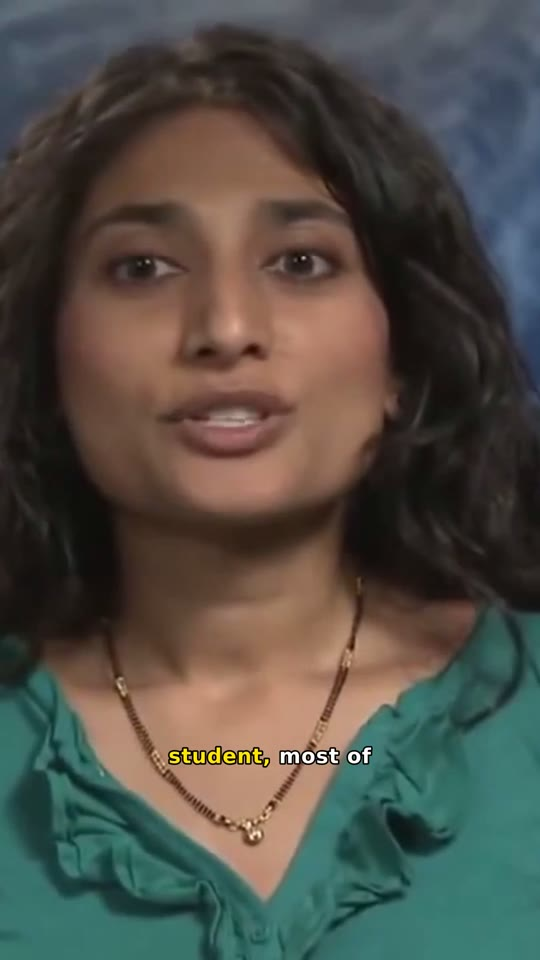
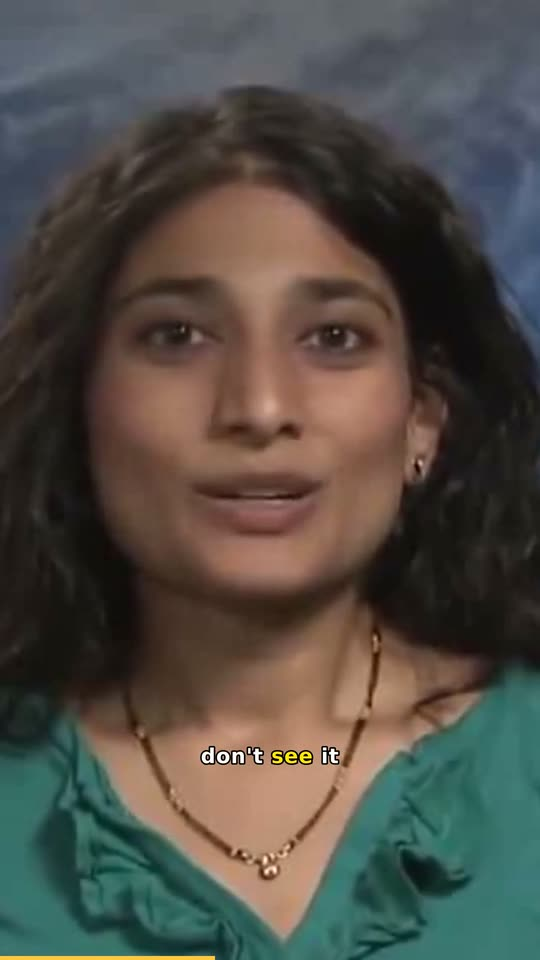
site: play the real rendered short in the demo + examples
- Take step now plays demo-short.mp4 (Hermes Studio's own render, untouched) while
  it is on screen; pauses when scrolled away; muted autoplay, opt-in 'Sound on'.
- Examples: talking-head output is the real video with controls.
- New source window: NASA 'Mamta Patel Nagaraja' 3:32-4:32, cropped so the NASA
  insignia is out of frame (14 CFR 1221). Picked window chosen by plan_heuristic,
  skipping stretches with decode corruption in the Commons upload.
- Scroll demo transcript, face box and crop re-measured from face_track on the new clip.
- Credit names the excerpt and states no endorsement (NASA media guidelines).
- Reduced motion: take card visible with native controls.

diff --git a/site/index.html b/site/index.html
@@ -150,9 +150,9 @@
     .screen .src { position: absolute; inset: 0; width: 100%; height: 100%; object-fit: cover; will-change: clip-path, transform; }
     .chip { position: absolute; left: 3%; top: 5%; display: flex; gap: .7rem; align-items: center; background: rgba(11,11,12,.88); border: 1px solid var(--line-2); padding: .45rem .75rem; font: 500 12px var(--mono); color: var(--ink); }
     .chip .ok { color: var(--amber); }
-    .facebox { position: absolute; left: 32.2%; top: 11%; width: 21%; height: 48%; border: 2px solid var(--amber); opacity: 0; }
+    .facebox { position: absolute; left: 47.2%; top: 19%; width: 19%; height: 45%; border: 2px solid var(--amber); opacity: 0; }
     .facebox span, .guide span { position: absolute; left: -2px; top: -1.7em; background: var(--amber); color: var(--amber-ink); font: 500 11px var(--mono); padding: .15em .45em; white-space: nowrap; }
-    .guide { position: absolute; top: 0; bottom: 0; left: 26.9%; width: 31.64%; border: 2px dashed var(--amber); opacity: 0; }
+    .guide { position: absolute; top: 0; bottom: 0; left: 40.88%; width: 31.64%; border: 2px dashed var(--amber); opacity: 0; }
     .guide span { top: .5em; left: .5em; }
     .tx { position: absolute; right: 3%; top: 6%; bottom: 6%; width: 42%; background: rgba(11,11,12,.9); border-left: 2px solid var(--amber); padding: .9rem 1rem; font: 13px/1.55 var(--mono); color: var(--dim); overflow: hidden; opacity: 0; display: flex; flex-direction: column; justify-content: flex-end; }
     .tx em { font-style: normal; color: var(--ink); }
@@ -161,6 +161,16 @@
     .cap .k { color: var(--amber); }
     .take { position: absolute; inset: 0; background: rgba(11,11,12,.95); display: grid; grid-template-columns: auto minmax(0, 1fr); grid-template-rows: minmax(0, 100%); gap: 5%; padding: 4.5% 5%; opacity: 0; pointer-events: none; }
     .take img { height: 100%; width: auto; max-width: none; aspect-ratio: 9 / 16; object-fit: cover; border: 1px solid var(--line-2); display: block; min-height: 0; }
+    .takev { position: relative; height: 100%; aspect-ratio: 9 / 16; min-height: 0; border: 1px solid var(--line-2); background: #000; }
+    .takev video { width: 100%; height: 100%; object-fit: cover; display: block; }
+    .snd { position: absolute; left: 50%; bottom: 7%; transform: translateX(-50%); background: rgba(11,11,12,.86); color: var(--ink); border: 1px solid var(--line-2); font: 500 11px var(--mono); padding: .4em .8em; cursor: pointer; white-space: nowrap; }
+    .snd:hover, .snd:focus-visible { border-color: var(--amber); color: var(--amber); outline: none; }
+    .snd[aria-pressed="true"] { color: var(--amber); }
+    .demo.live .take { pointer-events: none; }
+    .demo.live .take.on { pointer-events: auto; }
+    .demo.still .take { position: relative; opacity: 1; pointer-events: auto; margin-top: 1rem; height: min(70vh, 560px); }
+    .demo.still .take .fr { opacity: 1; transform: none; }
+    .ex video { width: 100%; display: block; border: 1px solid var(--line); background: #000; aspect-ratio: 9 / 16; object-fit: cover; }
     .take .files { align-self: center; }
     .take .ttl { font-weight: 800; font-variation-settings: "wdth" 125; text-transform: uppercase; font-size: clamp(16px, 1.9vw, 26px); line-height: .98; margin: 0 0 1rem; }
     .take .fr { display: flex; justify-content: space-between; gap: 1rem; padding: .5rem 0; border-top: 1px solid var(--line); font: 500 12px var(--mono); color: var(--mute); opacity: 0; transform: translateY(8px); }
@@ -264,11 +274,11 @@
             <div class="tx"></div>
             <div class="cap"></div>
             <div class="take">
-              <img src="assets/ex-talk-out.jpg" alt="" loading="lazy">
+              <div class="takev"><video src="assets/demo-short.mp4" poster="assets/demo-short-poster.jpg" muted loop playsinline preload="none"></video><button type="button" class="snd" aria-label="Play with sound">Sound on</button></div>
               <div class="files">
                 <p class="kicker" style="margin-bottom:.5rem">Named from its own words</p>
-                <p class="ttl">Most of us sought advice from each other</p>
-                <div class="fr"><b>clip_01.mp4</b><span>9:16 · 0:08 · −14 LUFS</span></div>
+                <p class="ttl">Sometimes the opportunities I've gotten</p>
+                <div class="fr"><b>clip_01.mp4</b><span>9:16 · 0:15 · −16 LUFS</span></div>
                 <div class="fr"><b>talk.srt · talk.vtt</b><span>word timings</span></div>
                 <div class="fr"><b>talk.txt</b><span data-words>190 words</span></div>
                 <div class="fr post"><b>Posted</b><span>Never. That's yours.</span></div>
@@ -309,9 +319,9 @@
       <figure class="reveal">
         <div class="pair">
           <div><img src="assets/ex-talk-src.jpg" alt="Wide 16:9 interview frame of a NASA engineer" loading="lazy"><span class="tag">Source · 16:9</span></div>
-          <div><img src="assets/ex-talk-out.jpg" alt="Vertical 9:16 clip cropped to the speaker with captions" loading="lazy"><span class="tag"><b>Auto → Speaker</b></span></div>
+          <div><video src="assets/demo-short.mp4" poster="assets/ex-talk-out.jpg" controls muted playsinline preload="none" aria-label="The 15-second vertical short Hermes Studio rendered from this talk"></video><span class="tag"><b>Auto → Speaker</b> · real output, press play</span></div>
         </div>
-        <figcaption><h3>Talking head</h3><p>Face found, crop locked on it for the whole clip. Word-by-word captions sit clear of the app buttons. Audio cleaned and levelled to -14 LUFS.</p></figcaption>
+        <figcaption><h3>Talking head</h3><p>Face found, crop locked on it for the whole clip. Word-by-word captions sit clear of the app buttons. Audio cleaned and levelled. That video is Studio's own render, untouched.</p></figcaption>
       </figure>
       <figure class="reveal">
         <div class="pair three">
@@ -328,7 +338,7 @@
       <div><b>Captions</b><h3>Six styles · four spots</h3><p>Word-by-word highlight, your keywords in colour, fix any misheard word.</p></div>
       <div><b>Edit after</b><h3>Re-cut any clip</h3><p>Move in and out, change the look, re-render. The old take waits in Dropped.</p></div>
     </div>
-    <p class="credit reveal">Example footage: <a href="https://commons.wikimedia.org/wiki/File:Mamta_Patel_Nagaraja.ogv">“Mamta Patel Nagaraja”</a>, NASA, public domain via Wikimedia Commons. The stream example lays that clip over a Hermes Studio screen recording.</p>
+    <p class="credit reveal">Example footage: <a href="https://commons.wikimedia.org/wiki/File:Mamta_Patel_Nagaraja.ogv">“Mamta Patel Nagaraja”</a> (NASA MissionSTEM, 2012), public domain via Wikimedia Commons. The demo uses 3:32–4:32, cropped so the NASA insignia is out of frame. The stream example lays that clip over a Hermes Studio screen recording. Courtesy NASA; no endorsement by NASA or Ms. Patel Nagaraja is implied.</p>
   </div></section>
 
   <section class="ch" id="how"><div class="w">
@@ -408,12 +418,20 @@ hermesclip run talk.mp4 --mode transcript</pre></div>
       const seg = (p, a, b) => clamp((p - a) / (b - a));
       const ease = (t) => 1 - Math.pow(1 - t, 3);
       const mmss = (t) => `${Math.floor(t / 60)}:${String(Math.floor(t % 60)).padStart(2, "0")}`;
-      const DUR = 60, FACE = 0.427, CROPW = 0.3164, CLIP = [12.34, 20.2];
+      const DUR = 60, FACE = 0.567, CROPW = 0.3164, CLIP = [25.52, 40.62];
       const STEPS = [0, .12, .30, .44, .60, .76, .88];
       const LBL = ["source · probe", "listening · local whisper", "scoring windows · hook, flow, value", "framing · face lock", "captions · word timing", "tighten · pauses and filler", "take"];
       const el = { steps: qa(".demo-steps li"), bar: q(".demo-bar i"), screen: q(".screen"), img: q(".src"), chip: q(".chip"), ok: q(".chip .ok"),
         tx: q(".tx"), face: q(".facebox"), guide: q(".guide"), cap: q(".cap"), take: q(".take"), rows: qa(".take .fr"),
-        lbl: q(".track .lbl"), clock: q(".track .clock"), wave: q(".wave"), ph: q(".ph"), track: q(".track") };
+        lbl: q(".track .lbl"), clock: q(".track .clock"), wave: q(".wave"), ph: q(".ph"), track: q(".track"),
+        vid: q(".takev video"), snd: q(".snd") };
+      if (el.snd && el.vid) el.snd.addEventListener("click", () => {
+        el.vid.muted = !el.vid.muted;
+        el.snd.setAttribute("aria-pressed", String(!el.vid.muted));
+        el.snd.textContent = el.vid.muted ? "Sound on" : "Sound off";
+        if (!el.vid.muted) { el.vid.currentTime = 0; el.vid.play().catch(() => {}); }
+      });
+      if (reduce && el.vid) el.vid.controls = true;
       let W = [], bars = [], wins = [], gaps = [], cut = 0, capWords = [];
 
       function build() {
@@ -436,8 +454,8 @@ hermesclip run talk.mp4 --mode transcript</pre></div>
         }
         wins = wins.map(([a, b]) => {
           const d = document.createElement("div");
-          d.className = "win"; d.style.left = (100 * a / DUR) + "%"; d.style.width = (100 * (b - a) / DUR) + "%";
-          if (Math.abs(a - CLIP[0]) < 0.05) { d.classList.add("pick-me"); d.dataset.l = `picked ${mmss(a)}–${mmss(b)}`; }
+          if (Math.abs(a - CLIP[0]) < 0.05) { b = CLIP[1]; d.classList.add("pick-me"); d.dataset.l = `picked ${mmss(a)}–${mmss(b)}`; }
+          d.className += " win"; d.style.left = (100 * a / DUR) + "%"; d.style.width = (100 * (b - a) / DUR) + "%";
           el.track.appendChild(d); return d;
         });
         // what tighten removes: pauses over 0.45 s and filler words, straight from the timings
@@ -541,8 +559,15 @@ hermesclip run talk.mp4 --mode transcript</pre></div>
 
         // 07 take
         const tk = seg(p, .88, .97);
-        el.take.style.opacity = ease(seg(tk, 0, .35)).toFixed(3);
+        el.take.style.opacity = reduce ? "" : ease(seg(tk, 0, .35)).toFixed(3);
+        const showing = !reduce && tk > .25;
+        el.take.classList.toggle("on", showing);
+        if (el.vid) {
+          if (showing && el.vid.paused) { el.vid.preload = "auto"; el.vid.play().catch(() => {}); }
+          else if (!showing && !el.vid.paused) { el.vid.pause(); }
+        }
         el.rows.forEach((r, i) => {
+          if (reduce) { r.style.opacity = r.style.transform = ""; return; }
           const t = ease(seg(tk, .2 + i * .15, .45 + i * .15));
           r.style.opacity = t.toFixed(3); r.style.transform = `translateY(${(8 * (1 - t)).toFixed(1)}px)`;
         });
